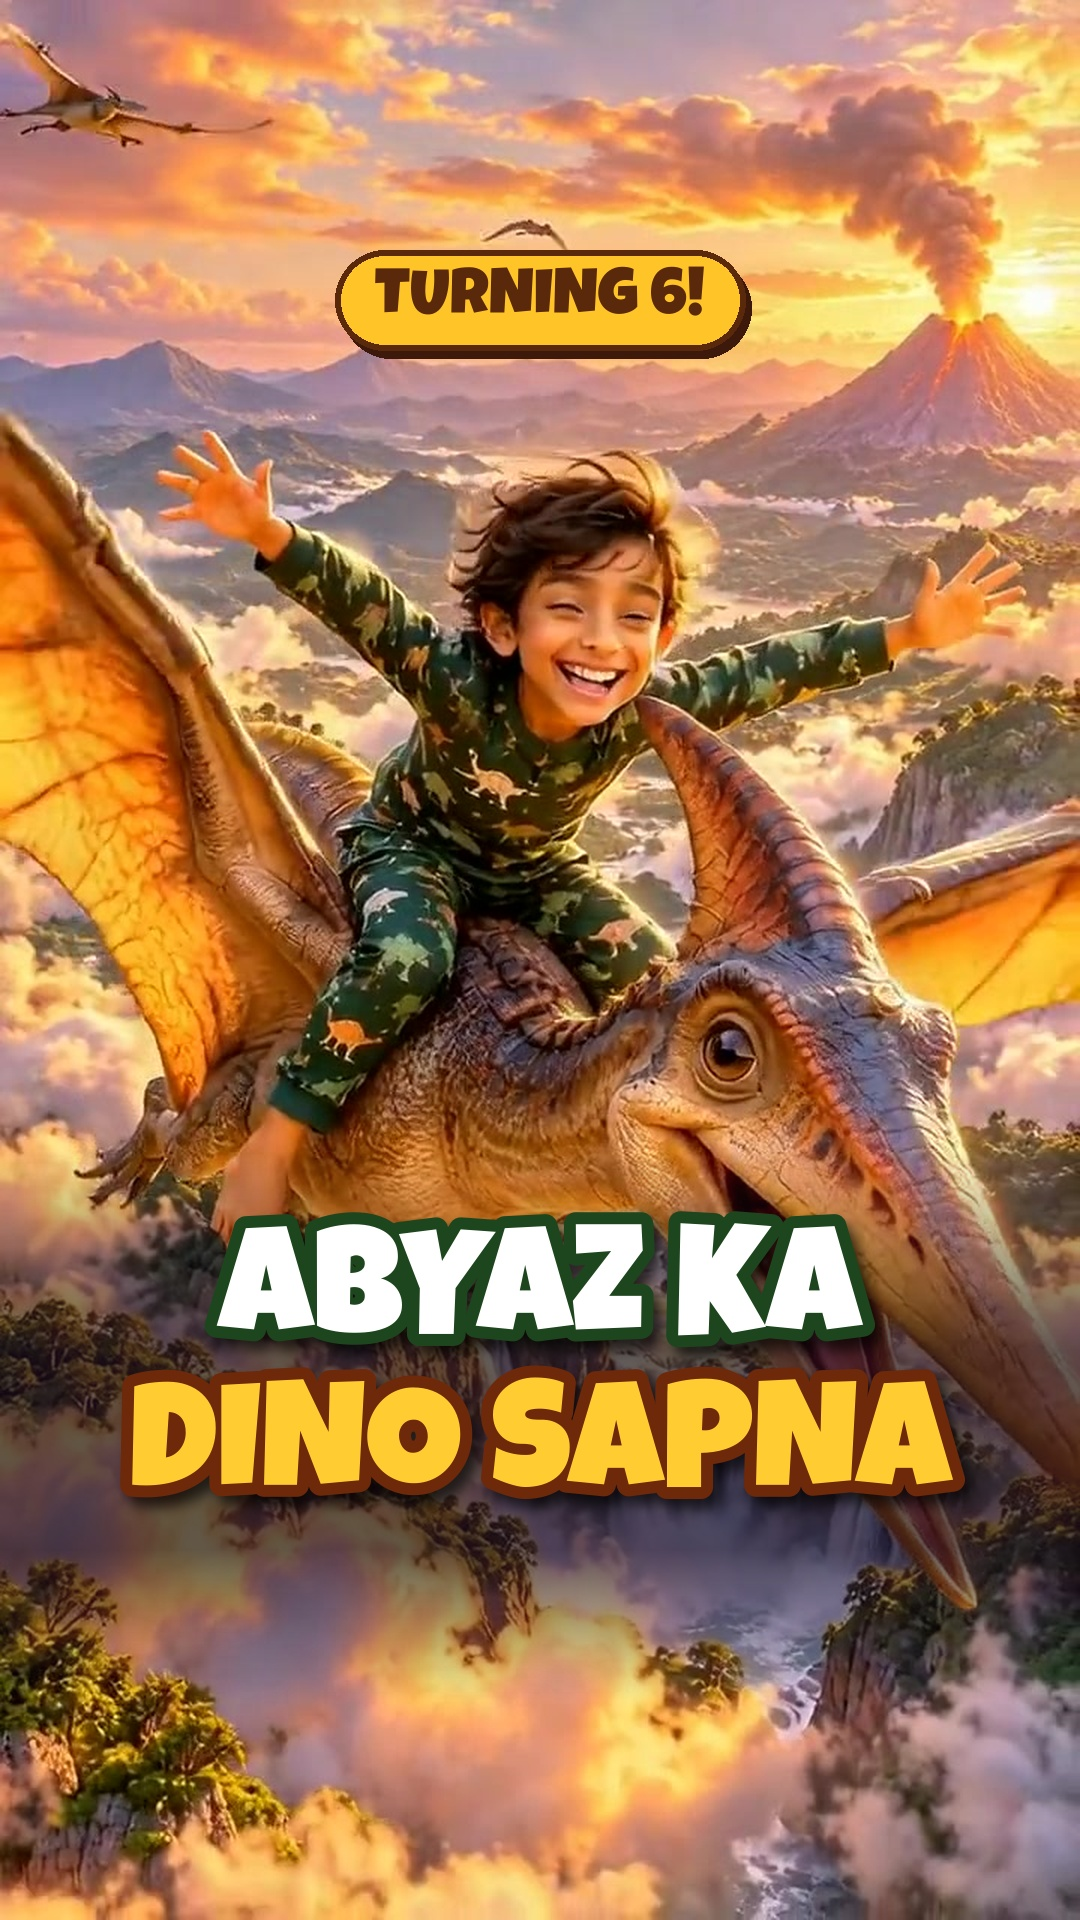
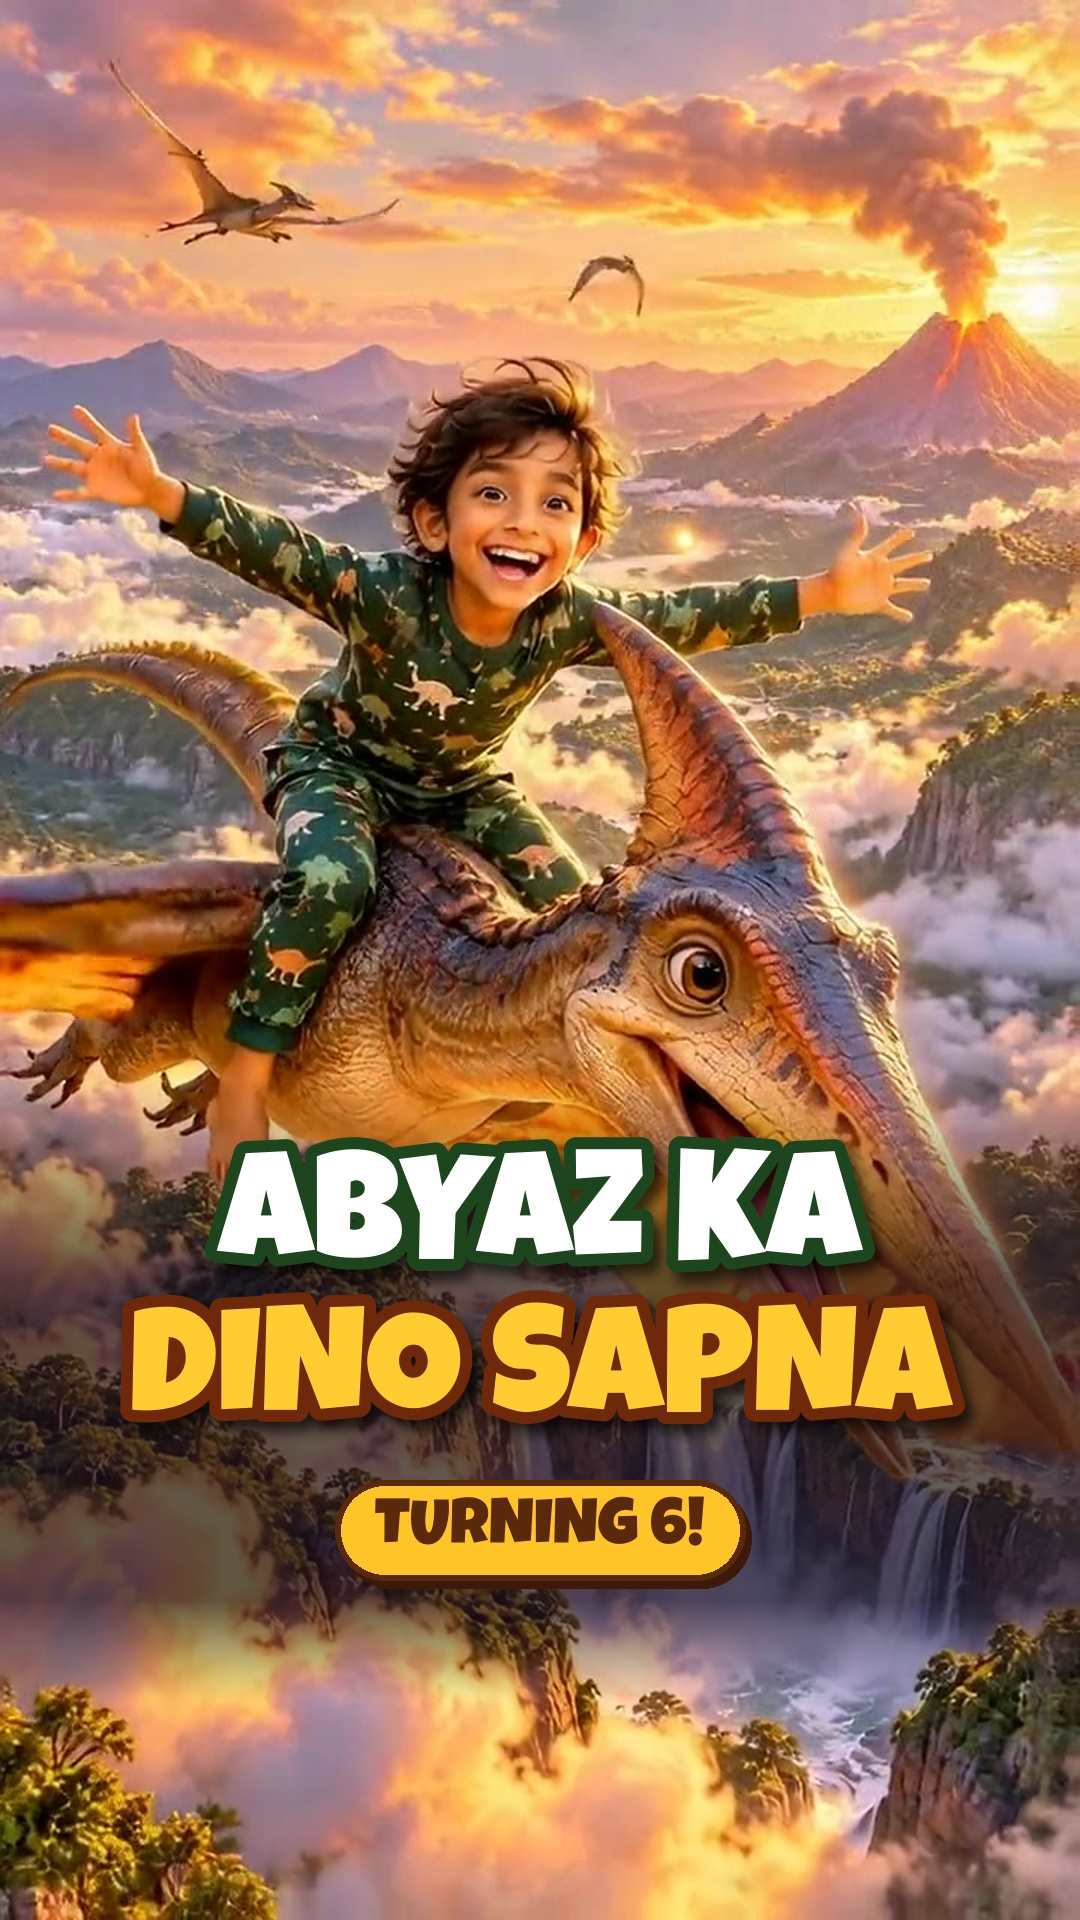
Use open-eyes 0:55 frame for Abyaz cover
Claude-Session: https://claude.ai/code/session_01KZvoTvszf762eXvVYWNLba

diff --git a/abyaz-dino-sapna/make_cover.py b/abyaz-dino-sapna/make_cover.py
@@ -1,13 +1,13 @@
-# Rebuild the cover. Needs frame_0m58s.jpg (ffmpeg -ss 58 -i video.mp4 -frames:v 1 frame_0m58s.jpg)
+# Rebuild the cover. Needs frame_0m55s.jpg (ffmpeg -ss 55 -i video.mp4 -frames:v 1 frame_0m55s.jpg)
 # and LuckiestGuy.ttf (Google Fonts) in this folder.
 from PIL import Image, ImageDraw, ImageFont, ImageFilter
 W,H=1080,1920
-img=Image.open('frame_0m58s.jpg').convert('RGB').resize((W,H),Image.LANCZOS)
+img=Image.open('frame_0m55s.jpg').convert('RGB').resize((W,H),Image.LANCZOS)
 F='LuckiestGuy.ttf'
 # soft dark gradient behind the title for readability
 grad=Image.new('L',(W,H),0); g=ImageDraw.Draw(grad)
-for y in range(1150,1700):
-    a=int(170*min(1,(y-1150)/200)) if y<1550 else int(170*max(0,(1700-y)/150))
+for y in range(1080,1700):
+    a=int(170*min(1,(y-1080)/200)) if y<1600 else int(170*max(0,(1700-y)/100))
     g.line([(0,y),(W,y)],fill=a)
 img=Image.composite(Image.new('RGB',(W,H),(20,12,30)),img,grad)
 d=ImageDraw.Draw(img)
@@ -20,15 +20,15 @@ def text(cx,y,s,size,fill,stroke=10,sc=(40,20,10)):
     img.paste(sh.filter(ImageFilter.GaussianBlur(6)),(0,0),sh.filter(ImageFilter.GaussianBlur(6)))
     d.text((cx-w/2,y),s,font=f,fill=fill,stroke_width=stroke,stroke_fill=sc)
     return f
-# top badge
+# badge under the title
 f=ImageFont.truetype(F,64); s="TURNING 6!"; w=d.textlength(s,font=f)
-bx0,by0=W/2-w/2-40,250; bx1,by1=W/2+w/2+40,350
+bx0,by0=W/2-w/2-40,1480; bx1,by1=W/2+w/2+40,1580
 d.rounded_rectangle([bx0+6,by0+8,bx1+6,by1+8],radius=50,fill=(60,25,10))
 d.rounded_rectangle([bx0,by0,bx1,by1],radius=50,fill=(255,196,40),outline=(90,40,10),width=6)
 d.text((W/2-w/2,by0+18),s,font=f,fill=(90,40,10))
 # title
-text(W/2,1225,"ABYAZ KA",150,(255,255,255),12,(30,70,30))
-text(W/2,1380,"DINO SAPNA",150,(255,205,50),12,(110,40,10))
+text(W/2,1150,"ABYAZ KA",150,(255,255,255),12,(30,70,30))
+text(W/2,1305,"DINO SAPNA",150,(255,205,50),12,(110,40,10))
 img.save('cover.jpg',quality=95)
 # grid preview (3:4 centre crop as shown on profile)
 img.crop((0,240,1080,1680)).resize((540,720)).save('grid_preview.jpg',quality=90)

diff --git a/abyaz-dino-sapna/INSTAGRAM.md b/abyaz-dino-sapna/INSTAGRAM.md
@@ -1,7 +1,7 @@
 # Abyaz Ka Dino Sapna: Instagram Reel Pack
 
 Video: `Abyaz_Ka_Dino_Sapna_phone.mp4` (1:59, 720x1280, 9:16)
-Cover: `cover.jpg` (1080x1920, built from the 0:58 frame of Abyaz flying on the pterodactyl)
+Cover: `cover.jpg` (1080x1920, built from the 0:55 frame of Abyaz flying on the pterodactyl, eyes open, face unedited)
 
 ---
 
